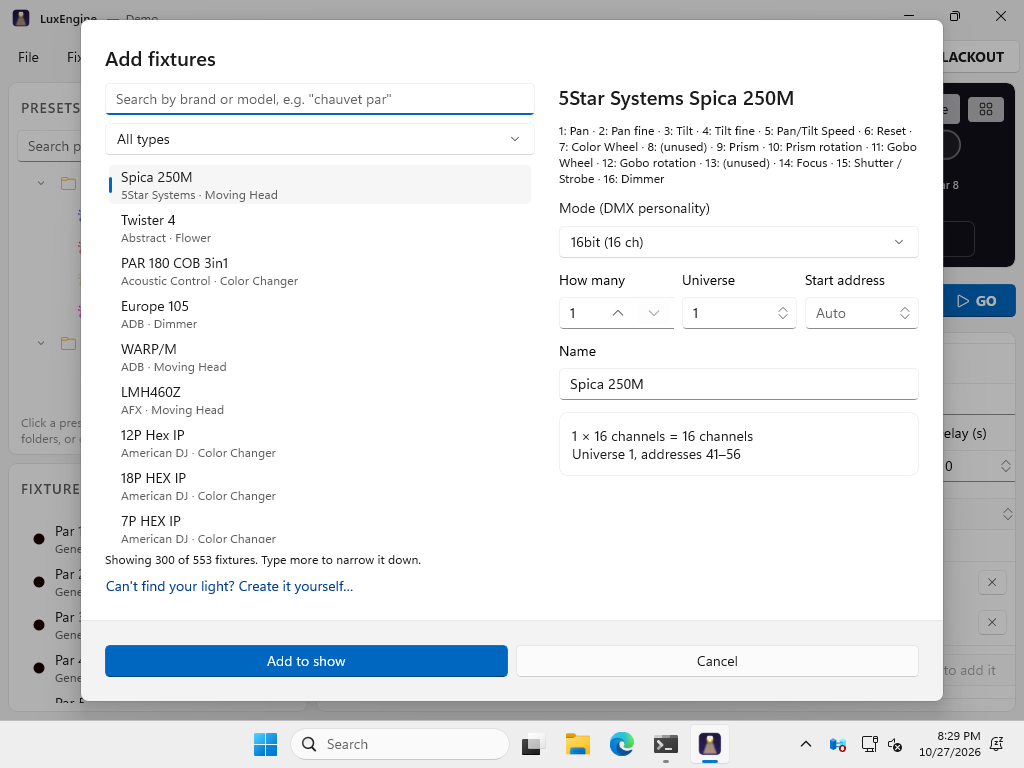
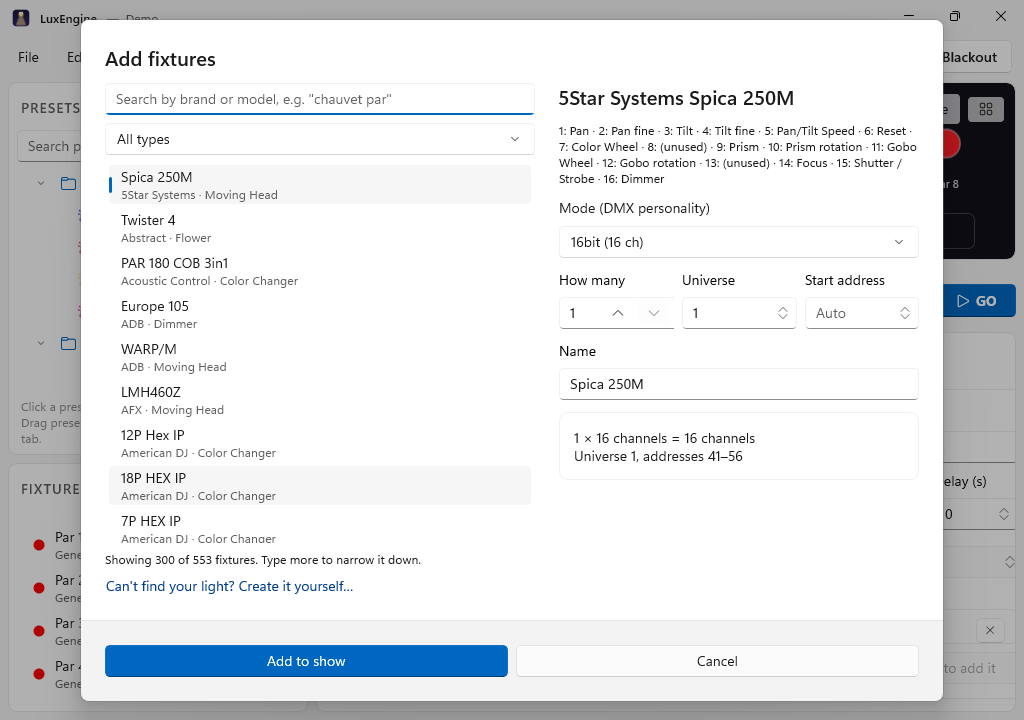
Keep the selection when the fixture list rebuilds; new README screenshots
Claude-Session: https://claude.ai/code/session_01QbYSD5WMLFthYdXG8Zf3in

diff --git a/src/LuxEngine.App/Views/FixturePanel.xaml.cs b/src/LuxEngine.App/Views/FixturePanel.xaml.cs
@@ -71,16 +71,25 @@ public sealed partial class FixturePanel : UserControl
         var conflicts = PatchHelper.FindConflicts(show);
         var conflicted = conflicts.SelectMany(c => new[] { c.First.Id, c.Second.Id }).ToHashSet();
 
-        Rows.Clear();
-        foreach (var fixture in show.Fixtures.OrderBy(f => f.Universe).ThenBy(f => f.Address))
+        // Rebuilding the rows empties the list's own selection; that must not deselect the lights.
+        _syncingSelection = true;
+        try
         {
-            var def = show.DefinitionOf(fixture);
-            Rows.Add(new FixtureRow(fixture.Id, def is null ? "Unknown fixture type" : $"{def.DisplayName} · {fixture.ModeName}")
+            Rows.Clear();
+            foreach (var fixture in show.Fixtures.OrderBy(f => f.Universe).ThenBy(f => f.Address))
             {
-                Name = fixture.Name,
-                Address = $"{fixture.Universe}.{fixture.Address:000}",
-                AddressBrush = conflicted.Contains(fixture.Id) ? Ui.Brush("LuxDangerBrush") : null,
-            });
+                var def = show.DefinitionOf(fixture);
+                Rows.Add(new FixtureRow(fixture.Id, def is null ? "Unknown fixture type" : $"{def.DisplayName} · {fixture.ModeName}")
+                {
+                    Name = fixture.Name,
+                    Address = $"{fixture.Universe}.{fixture.Address:000}",
+                    AddressBrush = conflicted.Contains(fixture.Id) ? Ui.Brush("LuxDangerBrush") : null,
+                });
+            }
+        }
+        finally
+        {
+            _syncingSelection = false;
         }
 
         Header.Text = Rows.Count == 0 ? "FIXTURES" : $"FIXTURES ({Rows.Count})";

diff --git a/README.md b/README.md
@@ -41,9 +41,13 @@
 
 ## Screenshots
 
-| Live control | Fixture library |
+| Live control, with a fixture group | Cue buttons |
 |---|---|
-| ![Control tab with four pars set to blue](docs/screenshots/control.png) | ![Searching the built-in fixture library](docs/screenshots/fixture-library.png) |
+| ![Control tab with four pars selected, dark theme](docs/screenshots/control.png) | ![Cue buttons, two of them on](docs/screenshots/buttons.png) |
+
+| Moving heads | Fixture library |
+|---|---|
+| ![Position pad of a moving head](docs/screenshots/movement.png) | ![Searching the built-in fixture library](docs/screenshots/fixture-library.png) |
 
 These screenshots are taken automatically by the CI smoke test on Windows, using the bundled demo show (*Help → Open demo show*).
 
